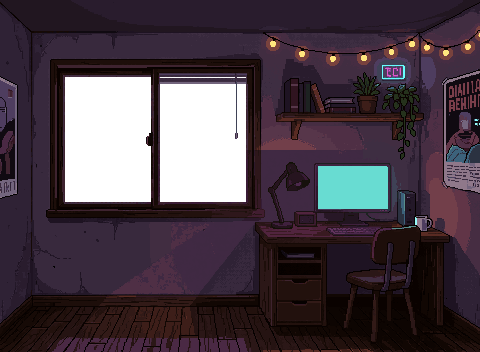
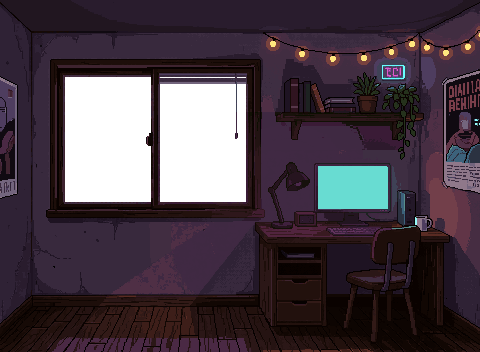
art: remove leftover lamp glow above the lamp; spread rain over the whole window

Changed region(s): [[0.5312, 0.3125, 0.8438, 0.4375]]

diff --git a/Tools/build_art.py b/Tools/build_art.py
@@ -3,7 +3,7 @@
 Run: python3 Tools/build_art.py
 All positions here are top-left based image pixels on the 480x352 room; manifests are written in SpriteKit
 coordinates (origin bottom-left). Every pack sprite is placed with its bottom-left corner on its anchor."""
-import json, math, os, random, shutil
+import collections, json, math, os, random, shutil
 import pngio
 from cutout import figure, polygon
 
@@ -189,6 +189,7 @@ write_manifest(clock_dir, id="retrodigital01", type="clock", packVersion=1, pers
 
 # ---------- room variants: lamp-off is a PixelLab edit of the lamp area; daylight is still a crude stand-in recolour
 LAMP_CROP = (136, 150)  # where the 256x160 crop sent to PixelLab sits in the room
+GLOW_ABOVE = (226, 112, 404)  # x0, top, x1: wall under the shelf that the lamp also lit, above that crop
 def lamp_off(img):
     """Patches the PixelLab lamp-off picture into the room, only where the original was lit, and shifts its colours
     so the patch meets the untouched wall without a seam (the edit re-tinted the whole crop a little)."""
@@ -206,9 +207,18 @@ def lamp_off(img):
                 count += 1
     shift = [round(v / max(count, 1)) for v in shift]
     out = [row[:] for row in img]
+    remap = {}  # lit colour -> its unlit colour, learned from the patched area
     for i, j in lit:
         if out[ly + j][lx + i][3]:
-            out[ly + j][lx + i] = (*[max(0, min(255, edit[j][i][c] + shift[c])) for c in range(3)], 255)
+            unlit = (*[max(0, min(255, edit[j][i][c] + shift[c])) for c in range(3)], 255)
+            out[ly + j][lx + i] = unlit
+            remap.setdefault(original[ly + j][lx + i], collections.Counter())[unlit] += 1
+    # The lamp's glow also reaches the wall above the crop sent to PixelLab. Recolour it with the same
+    # lit -> unlit mapping, so the edge of the patch does not show.
+    for y in range(GLOW_ABOVE[1], ly):
+        for x in range(GLOW_ABOVE[0], GLOW_ABOVE[2]):
+            if original[y][x] in remap and out[y][x][3]:
+                out[y][x] = remap[original[y][x]].most_common(1)[0][0]
     return out
 
 def daylight(img):  # mild: actors are not tinted, so keep the dark chair pixels plausible
@@ -219,7 +229,8 @@ def daylight(img):  # mild: actors are not tinted, so keep the dark chair pixels
 RAIN_FRAMES, RAIN_STEP, RAIN_PERIOD, RAIN_COLOUR = 6, 8, 48, (170, 210, 255, 160)
 def rain_sheet():
     rng = random.Random(7)
-    drops = [(rng.randrange(2, ww), rng.randrange(RAIN_PERIOD)) for _ in range(34)]
+    # One drop per 4 px column band, so the whole pane rains evenly (random columns left gaps).
+    drops = [(x + rng.randrange(3), rng.randrange(RAIN_PERIOD)) for x in range(2, ww - 2, 4)]
     frames = []
     for f in range(RAIN_FRAMES):
         img = [[CLEAR] * ww for _ in range(wh)]

diff --git a/docs/logs/art-A-lofi.md b/docs/logs/art-A-lofi.md
@@ -41,14 +41,22 @@ Each pose is an edit of the character's existing rest picture (`ArtSource/<who>_
 - `Executed 112 tests, with 0 failures` / `** TEST SUCCEEDED **` on the iPad.
 - Device run with `-routineSpeed 20`: of eight screenshots 3 s apart, two showed the rest pose (looking out of the window) correctly placed in the chair.
 
+## Fixes after the user's review (2026-11-16)
+
+- Lamp off: glow was left on the wall above the lamp, outside the crop sent to PixelLab. The wall under the shelf is now recoloured with the lit→unlit colour mapping learned from the patched area (`GLOW_ABOVE` in `Tools/build_art.py`).
+- Rain: drops were placed in random columns and left the left pane nearly empty. Now one drop per 4 px column band, so the whole window rains evenly.
+- Checked on the iPad at night with rain and the lamp off.
+
 ## Still stand-ins
 
 - Day rooms (`room_day.png`, `room_day_off.png`): a pale wash; characters look too dark against them.
 - Day city views: brightened copies of the night pictures.
-- Rain: faint streaks.
+- Rain: even coverage now, but still thin, faint streaks.
 - Music skin: first-pass pixel panel and notes drawn by the script.
 
 ## Known problems
+
+- The cat's tap reaction (startle with eyes opening) is too plain; the user wants more cat animation later.
 
 - Moving between rest and a pose is a cut, not an animation (one frame per pose).
 - On the iPad (routines sped up 20×) the rest pose was seen in place with nothing clipped; drink and stretch were not caught in the screenshots.
